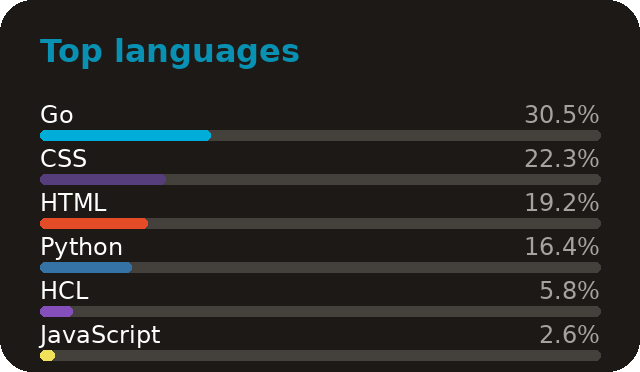
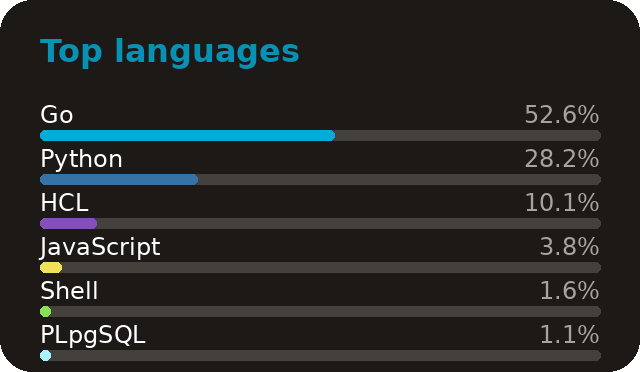
chore(profile): refresh static cards

diff --git a/README.md b/README.md
@@ -39,9 +39,9 @@
 ## 📊 GitHub Stats
 
 <!-- profile:stats -->
-<a href="https://github.com/sosadtsia"><img src="./assets/stats.png?v=b4ad676e118f" alt="GitHub stats" width="495" /></a>
-<a href="https://github.com/sosadtsia"><img src="./assets/languages.png?v=e8184aa3aa84" alt="Top languages" width="320" /></a>
-<a href="https://github.com/sosadtsia"><img src="./assets/streak.png?v=950f6bd47e77" alt="Contribution streak" width="495" /></a>
+<a href="https://github.com/sosadtsia"><img src="./assets/stats.png?v=ac2be998a50b" alt="GitHub stats" width="495" /></a>
+<a href="https://github.com/sosadtsia"><img src="./assets/languages.png?v=e4cea9bedf54" alt="Top languages" width="320" /></a>
+<a href="https://github.com/sosadtsia"><img src="./assets/streak.png?v=4a7ff5bd449a" alt="Contribution streak" width="495" /></a>
 <!-- /profile:stats -->
 
 ## 🔗 Connect With Me
